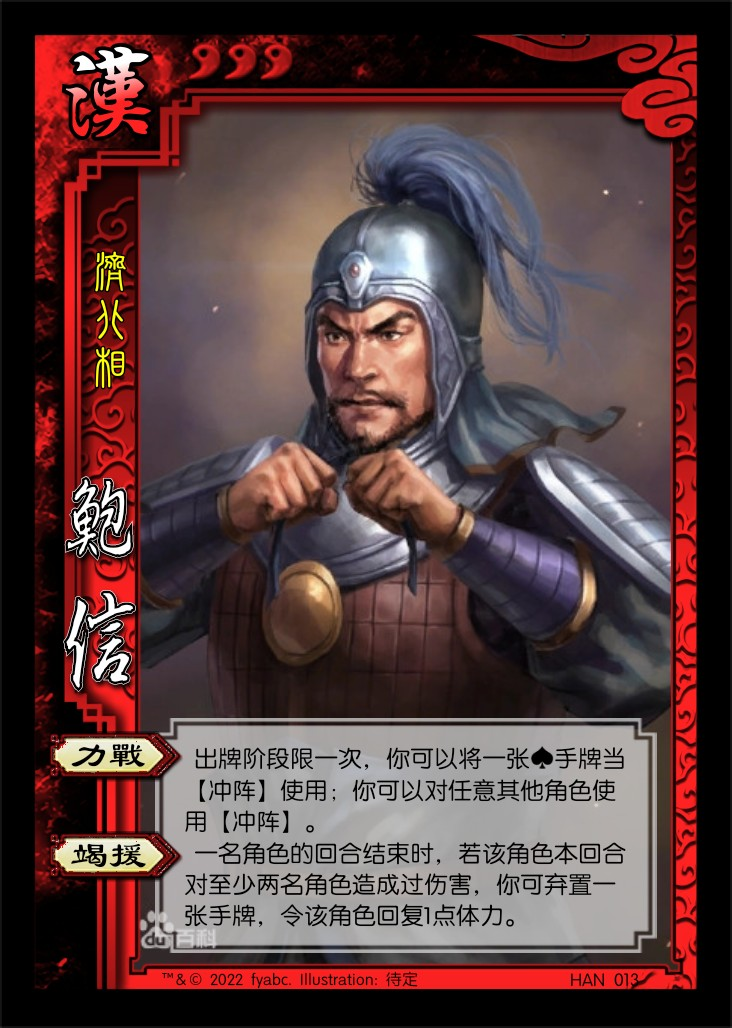
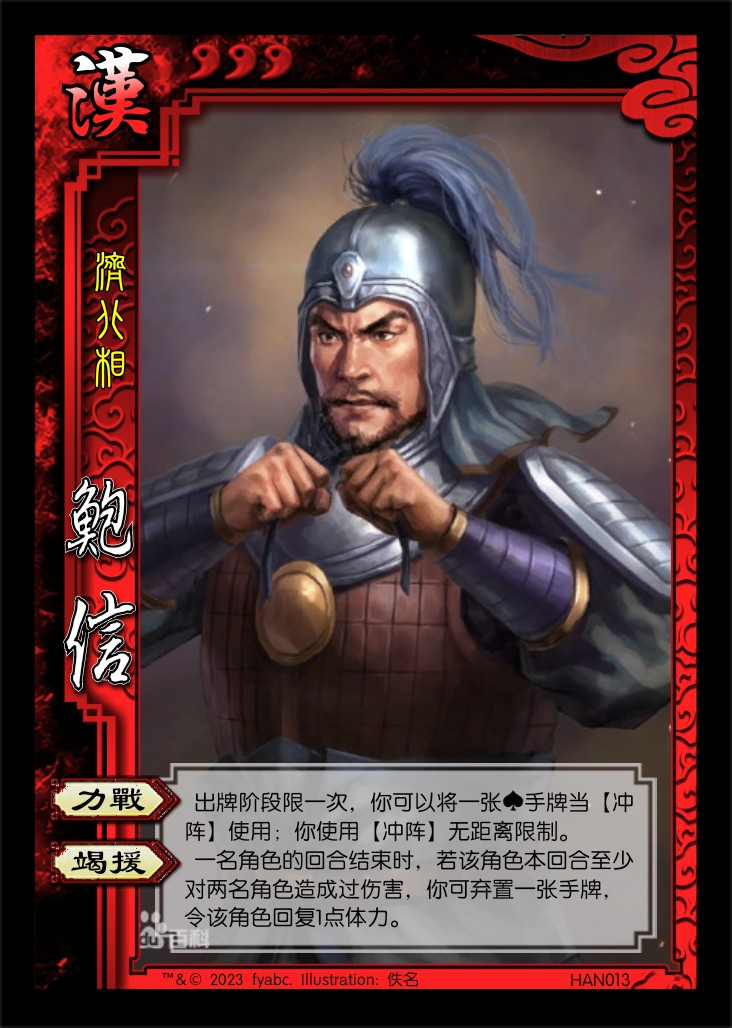
Fix in ext4.

diff --git a/SanGuoSha/SGS-RebirthProject/ext-main/ext4.md b/SanGuoSha/SGS-RebirthProject/ext-main/ext4.md
@@ -2,10 +2,11 @@
 
 ## 新概念
 
-1. 带触发效果的基本牌/普通锦囊牌：类似于官方国战【敕令】的效果。若一张带触发效果的牌未因使用而从一名角色的手牌进入弃牌堆，则于此回合结束时视为该角色使用了此牌，*且此牌不可被响应*（若此牌需指定目标，则由该角色指定目标；若此牌无合法目标，则取消此牌）。
+1. 带触发效果的基本牌/普通锦囊牌：类似于官方国战【敕令】的效果。若一张带触发效果的牌未因使用而从一名角色的手牌进入弃牌堆，则于此回合结束时视为该角色使用了此牌，*且此牌不可被抵消*（若此牌需指定目标，则由该角色指定目标；若此牌无合法目标，则取消此牌）。
 
    > 带触发效果的牌的右上角有闪电形状的触发标记。  
-   > 注：带触发效果的牌可通过打出或在弃牌阶段弃置的方式，利用其不可被响应的特点，作为主动输出手段（对于【杀】，还能实现双刀）。
+   > 注：带触发效果的牌可通过打出或在弃牌阶段弃置的方式，利用其不可被抵消的特点，作为主动输出手段（对于【杀】，还能实现双刀）。  
+   > 注：注意区分“响应”和“抵消”，“抵消”仅包含使用【闪】抵消【杀】，和使用【无懈可击】抵消锦囊牌。
 
 ## 特殊玩法说明
 
@@ -128,9 +129,9 @@
 ## 武将
 
 1. ![李傕](../assets/images/heroes/E4-李傕.png) 李傕 男 群 4体力/5上限 QUN023
-    1. 【狼袭】：出牌阶段限一次，你可以对攻击范围内的一名其他角色造成1点伤害，然后其可以选择一项：减1点体力上限，废除你的一个装备栏；或废除一个装备栏，令你减1点体力上限。
+    1. 【狼袭】：出牌阶段限一次，你可以对攻击范围内的一名其他角色造成1点伤害，然后其可以选择一项：失去1点体力，令你减1点体力上限；或废除一个装备栏，废除你的一个装备栏。
 
-    > 【狼袭】是否过强？如何改得更有博弈性？设计武器与其配合？
+    > 【狼袭】如何改得更有博弈性？
 2. ![郭汜](../assets/images/heroes/E4-郭汜.png) 郭汜 男 群 4体力/5上限 QUN024
 3. ![樊稠](../assets/images/heroes/E4-樊稠.png) 樊稠 男 群 4体力/5上限 QUN025
 4. ![张济](../assets/images/heroes/E4-张济.png) 张济 男 群 4体力/5上限 QUN026
@@ -143,8 +144,8 @@
 ----
 
 1. ![SP刘协](../assets/images/heroes/E4-SP刘协.png) 刘协 男 汉 2体力/3上限 SP-HAN001 称号：危机四伏
-    1. 【危境】：每回合限一次，你可以将X张手牌当【绝处逢生】使用（X为你的体力值），然后若你的手牌为唯一最少，你摸一张牌。
-    2. 【劝和】：TODO
+    1. 【危境】：每回合限一次，你可以将X张相同颜色的手牌当【绝处逢生】使用（X为你的体力值且至少为1），然后若你的手牌为唯一最少，你摸一张牌。
+    2. 【劝和】：TODO：与一技能联动，将【杀】或普通锦囊牌引向自己？
     3. 【济民】：**主公技**，当一张带触发效果的牌指定目标后，你可令一名汉势力角色回复1点体力。
 
     > 【济民】取献帝在关中饥荒期间赈济灾民的典故。

diff --git a/SanGuoSha/SGS-RebirthProject/ext-main/ext3.md b/SanGuoSha/SGS-RebirthProject/ext-main/ext3.md
@@ -149,7 +149,7 @@
    > 本扩展四个汉势力角色的技能包含四种花色中的各一个（韩馥为♦）。  
    > TODO：测试武将强度。
 7. ![鲍信](../assets/images/ext-main/ext3/E3-鲍信.jpg) HAN013 鲍信 男 汉 3体力 称号：济北相
-   1. 【力战】：出牌阶段限一次，你可以将一张♠手牌当【冲阵】使用；你可以对任意其他角色使用【冲阵】。
+   1. 【力战】：出牌阶段限一次，你可以将一张♠手牌当【冲阵】使用；你使用【冲阵】无距离限制。
    2. 【竭援】：一名角色的回合结束时，若该角色本回合至少对两名角色造成过伤害，你可弃置一张手牌，令该角色回复1点体力。
 
    > 【竭援】可以联动曹操使用AOE和鲍信自身的【力战】技能，契合历史。  

diff --git a/SanGuoSha/SGS-RebirthProject/real-cards.md b/SanGuoSha/SGS-RebirthProject/real-cards.md
@@ -3,4 +3,4 @@
 1. [ ] 标准：周瑜fix，张辽v2，甘宁v2
 2. [ ] 扩展1：张让bugfix，黄钺v2，皇甫嵩v2，SP刘备v2，SP刘宏改编号
 3. [ ] 扩展2：骅骝v2，SP貂蝉改编号，4张鸩毒fix
-4. [ ] 扩展3：SP袁绍改编号，SP孙坚改编号，SP诸葛亮改编号、3张冲阵fix
+4. [ ] 扩展3：SP袁绍改编号，SP孙坚改编号，SP诸葛亮改编号、3张冲阵fix，鲍信fix描述
